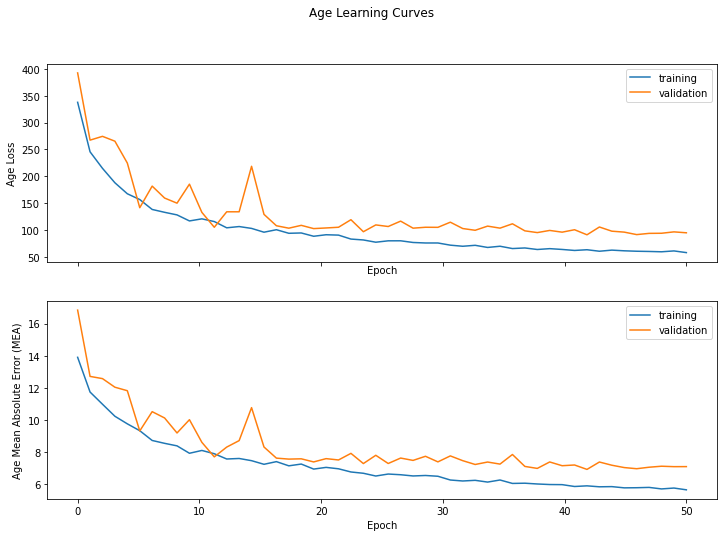
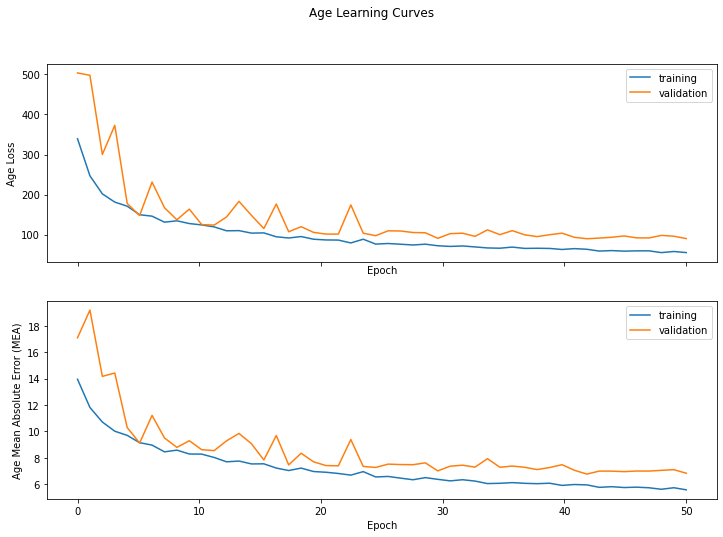
MOre adjustments and figure updates

diff --git a/report/sections/pre-trainedCNN.tex b/report/sections/pre-trainedCNN.tex
@@ -54,7 +54,12 @@ The pre-trained model was trained in the same manner as Model A, with the same l
 
 Unfortunately we found the model started heavily over-fitting after a number of epochs.\\
 If left to train for longer it would continue to improve training accuracy, however validation would not, and occasionally get worse.
-As a form of hyper-parameter training we implemented a stop early callback which would end the training and retain the best weights (with respect to validation loss output) if the validation loss failed to improve over 5 consecutive epochs.
+As a form of hyper-parameter training we implemented a stop early callback which would end the training and retain the best weights (with respect to validation loss output) if the validation loss failed to improve over 5 consecutive epochs.\\
+The trace of the training when early stopping was performed can be found in \autoref{appendix:ModelB_early_stopping}, wherein there was no improvement in validation loss from epoch 26-30, and as such the model weights would be set to those obtained in epoch 25.
+
+\subsubsection{Data Preparation}
+The dataset was processed in the same manner as for training Model A.\\
+An \verb|ImageDataGenerator| was created, and used to create a data generator for both training and validation images.
 
 \begin{optional}
     \subsubsection{Hyper-Parameter Tuning}
@@ -68,44 +73,50 @@ As a form of hyper-parameter training we implemented a stop early callback which
         \item Dropout rate (for both branches)
         \item Regularisation (for both branches)
     \end{enumerate}
-    Once this completed, we rebuilt and trained the model with the tuned hyper-params fixed.
+    Once this completed, we rebuilt and trained the model with the tuned hyper-params fixed.\\
+    \begin{notes}
+        This could be thrown into a table in the appendix if we want to ref we did tuning without wasting space on the specific params?
+    \end{notes}
 \end{optional}
 
+
 \subsection{Performance}
-The trace of the final epoch is below.
-\begin{notes}
-    Pending final training\dots\\
-    Should this be placed in appendix, but key values (gender accuracy and age MAE) be provided, to discuss along with graphs.
-\end{notes}
-\begin{verbatim}
-    Epoch 24/50
-125/125 [==============================] 
-- 47s 377ms/step 
-- loss: 102.8915 
-- age_output_loss: 89.4744 
-- gender_output_loss: 0.1342 
-- age_output_mean_absolute_error: 6.8606 
-- gender_output_binary_accuracy: 0.9452 
-- val_loss: 176.9170 
-- val_age_output_loss: 136.7507 
-- val_gender_output_loss: 0.4017 
-- val_age_output_mean_absolute_error: 8.1429 
-- val_gender_output_binary_accuracy: 0.8448
-\end{verbatim}
-
-The pre-trained model performed slightly worse than our model on both tasks on the validation data.
-It achieved an accuracy of 84\% on gender prediction and a mean squared error of 8.1 on age
-prediction. It also over-fits slightly, achieving higher performance on the training data.
-
-\begin{figure}
+Due to the early stopping implemented for Model B's training, the final Epoch is not the one from which the weights will be saved.\\
+They will in-fact be saved from Epoch 25, since it failed to improve on the validation loss for 5 subsequent Epochs.\\
+From Epoch 25, we can see Model B got the following performance:
+\begin{table}[h!]
     \centering
-    \includegraphics[width=0.7\textwidth]{Model_B_AgeLearning.png}
-    \caption{\label{fig:ModelBPerformanceAge} The performance on age prediction for the pre-trained model.}
-\end{figure}
+    \begin{tabular}[h]{r|l|l}
+        \hline
+        Metric & Training & Validation \\
+        \hline
+        Age Mean Absolute Error & 6.6296 & 6.4352 \\
+        \hline
+        Gender Binary Accuracy & 0.9495 & 0.8952 \\
+        \hline
+    \end{tabular}
+    \caption{\label{tab:ModelB_Performance}}
+\end{table}
+For the full training output for epoch 25, please see \autoref{appendix:modelB_best_epoch}.
+For the training output for the final epochs (from the best epoch till the last), please see \autoref{appendix:modelB_early_stopping_epochs}.
 
+Looking at the learning curves (shown in \autoref{fig:ModelBPerformanceAge}) of the age MAE for Model B, you can see very little over-fitting, with both lines sticking very close together with some minor spikes from the validation curve.\\
+Unfortunately the gender accuracy shown in \autoref{fig:ModelBPerformanceGender} highlights a not insignificant amount of over-fitting, where validation accuracy always being at least 2\% more than the training accuracy, and starting to diverge from ~epoch 10.\\
+\textit{The graphs within \autoref{fig:ModelBPerformance} }\\
 
-\begin{figure}
+\begin{figure}[h!]
+    \begin{subfigure}{\textwidth}
+        \centering
+        \includegraphics[height=0.45\textheight]{Model_B_AgeLearning_hp_tuned.png}
+    \caption{\label{fig:ModelBPerformanceAge}The performance on age prediction for the pre-trained model.}
+    \end{subfigure}
+    \begin{subfigure}{\textwidth}
+        \centering
+        \includegraphics[height=0.45\textheight]{Model_B_GenderLearning_hp_tuned.png}
+        \caption{\label{fig:ModelBPerformanceGender}The performance on gender prediction for the pre-trained model.}    
+    \end{subfigure}
     \centering
-    \includegraphics[width=0.7\textwidth]{Model_B_GenderLearning.png}
-    \caption{\label{fig:ModelBPerformanceGender} The performance on gender prediction for the pre-trained model.}
+    \caption{
+        \label{fig:ModelBPerformance}Learning curves observed training Model B. \textit{Graphs show 30 epochs, however the weights are actually saved for epoch 25.}
+        }
 \end{figure}

diff --git a/report/sections/ownCNN.tex b/report/sections/ownCNN.tex
@@ -1,7 +1,7 @@
 
 \section{Model A - CNN Created From Scratch}
 \subsection{Architecture}
-Our model architecture is shown in Fig \autoref{fig:ModelAGraph}. 
+Our model architecture is shown in \autoref{fig:ModelAGraph}. 
 It consists of a shared trunk with two convolutional layers with 64 3x3 kernels and relu activation followed by a 2x2 maxpooling layer and a batchnorm layer. 
 It then has a convolutional layer with 128 3x3 kernels followed by a 2x2 maxpooling layer. 
 The output of this trunk is sent to different branches for age and gender prediction. 
@@ -21,7 +21,8 @@ The first and second layers use relu activation and the final layer uses no acti
 \begin{figure}[h!]
     \centering
     \includegraphics[height=0.95\textheight]{ModelA_Graph.png}
-    \caption{\label{fig:ModelAGraph} The architecture for Model A.}
+    \caption{The architecture for Model A.}
+    \label{fig:ModelAGraph}
 \end{figure}
 
 This architecture was chosen because the first layers of a CNN usually extract generic low-level features which are common to many images. 
@@ -52,14 +53,13 @@ The dense layers also employ dropout and L2 regularisation to reduce over-fittin
 \end{optional}
 
 \subsection{Training}
-The model is trained to minimize a weighted average of losses from each branch. 
+The model is trained to minimize a weighted average of losses from each branch. \\
 The loss for the gender prediction output is binary cross entropy because it is a binary classification problem and the loss for the age prediction is mean squared error because it is a regression problem. 
-Mean squared error was chosen over mean absolute error in order to penalise larger errors more than smaller ones. 
-The average loss is weighted 1:100 towards gender prediction because the average gender losses seen during training were approximately 50 times smaller than the age losses.
-This weighting was chosen so the model attempts to balance its training objectives without over-prioritising either age or gender. 
-The model uses the Adam optimizer with a exponentially decaying learning rate. 
-
-The model is trained for a total of 50 epochs.
+Mean squared error was chosen over mean absolute error in order to penalise larger errors more than smaller ones.\\
+The average loss is weighted 1:100 towards gender prediction because the average gender losses seen during training were much smaller than the age losses (due to it being a binary problem, and the age loss being a squared value).
+This weighting was chosen so the model attempts to balance its training objectives without over-prioritising either age or gender.\\
+The model uses the Adam optimizer with a exponentially decaying learning rate.\\
+The model is trained for a total of 50 epochs.\\
 
 \begin{optional}
     \subsubsection{Hyper-Parameter Tuning}
@@ -77,12 +77,15 @@ The model is trained for a total of 50 epochs.
         \item Dropout rate (for both branches)
         \item Regularisation (for both branches)
     \end{enumerate}
-    An output of the tuning can b found in the appendix here \autoref{appendix:Model_A_Hyper-Parameter_Tuning}
+    An output of the tuning can be found in \autoref{appendix:Model_A_Hyper-Parameter_Tuning}
 
-    Once this completed, we rebuilt and trained the model with the tuned hyper-params fixed.
+    Once this completed, we rebuilt and trained the model with the tuned hyper-params fixed.\\
+    \begin{notes}
+        This could be thrown into a table in the appendix if we want to ref we did tuning without wasting space on the specific params?
+    \end{notes}
 \end{optional}
 
-\subsection{Data}
+\subsubsection{Data Preparation}
 The model is trained on data from the dataset provided. The data is preprocessed using the Keras \verb|ImageDataGenerator| to effectively increase the size of the dataset and prevent over-fitting. 
 The augmentations used are rotation, zoom, and horizontal flipping.\\
 To split the dataset into the Training and Validation datasets, the \verb|ImageDataGenerator| was provided 0.2 as the validation split. We then called the \verb|flow_from_dataframe| method on the generator, passing in the dataframe containing the image paths and labels, and provided which dataset should be created, e.g. training or validation.
@@ -98,7 +101,7 @@ The gender branch can be seen to over-fit to a greater extent than the age branc
 
 The trace of the final training epoch is below.\\
 \begin{verbatim}
-    Epoch 50/50
+Epoch 50/50
 125/125 [==============================] 
 - 41s 325ms/step 
 - loss: 82.5588 
@@ -117,12 +120,13 @@ The trace of the final training epoch is below.\\
     Can just include gender binary accuracy and age MAE for both training and validation to summarize performance and discuss the graphs?
 \end{notes}
 \begin{figure}[h]
-    \centering
     \begin{subfigure}{\textwidth}
+        \centering
         \includegraphics[height=0.45\textheight]{ModelA_AgeLearning_TunedHyperParams.png}
         \caption{\label{fig:ModelAPerformanceAge} The performance on age prediction for our model.}
     \end{subfigure}
     \begin{subfigure}{\textwidth}
+        \centering
         \includegraphics[height=0.45\textheight]{ModelA_GenderLearning_TunedHyperParams.png}
         \caption{\label{fig:ModelAPerformanceGender} The performance on gender prediction for our model.}
     \end{subfigure}

diff --git a/report/sections/summaryAndDiscussion.tex b/report/sections/summaryAndDiscussion.tex
@@ -1,19 +1,22 @@
 \section{Summary and Conclusions}
-Both models over-fit significantly (with validation loss being ~5\% worse than training loss once it began to plateau) despite measures to counteract it including L2 regularisation,
-dropout and data augmentation. This is likely due to the relatively small amount of training data.
+Though Model A produced better values for the age Mean Square Error during training, it was out-performed by Model B during validation (for both age and gender loss metrics), and during training when viewing the gender Binary Accuracy.
 
-Model B performed slightly worse than Model A, and suffered from over-fitting in particular when trained for the same number of epochs.\\
-Given the known performance of the ResNet50 model and the number of convolutions \& layers it contains, you would expect the feature extraction capabilities to supersede that of Model A.\\
-Given this you'd expect Model B to out perform Model A.
-Though the performance is close (as was the disparity between training and validation loss), Model B actually performed slightly worse than Model A.
-Below are the reasons we believe this to be the case:
-\begin{enumerate}
-    \item \textbfit{Lack of Hyper-Parameter tuning / identification:}\\
-    When we left Model B to continue training beyond the epoch that triggered the early-stopping callback, the model was able to continue improving its training loss reduction much faster than that of Model A, however the validation loss either failed to improve, or in-fact worsened.\\
-    Given this it is possible that the hyper-parameters for Model B could be sub-optimal, resulting in the model over-fitting.
-    To resolve this we could perform the same hyper-parameter tuning we did for Model A, though adjusted to suit the hyper-parameters we identify for Model B.
+Both models were observed to suffer from over-fitting to some degree.
+Model A suffered over-fitting for both branches, while Model B showed over-fitting just for the gender branch.\\
+This is evidenced by the diverging of the learning curves between the training and validation metrics, despite measures to counteract over-fitting, including: L2 regularisation, dropout, and data augmentation.
 
-    \item \textbfit{Model A was purpose built:}\\
-    Despite having a much simpler architecture and many fewer parameters, Model A was built to solely predict age and gender. Model B by comparison was trained on ImageNet to classify images as one of 1000 classes. None of these classes are related to human faces so the power of the ResNet50 base model is applicable only to more generic image features in our case.\\
-    Although we did unfreeze the ResNet50 model weights, with the intention of allowing the ResNet50 convolution layer weights to be optimised for the task at hand, it may simply be the the model itself doesn't lend itself to extracting the features we need.  
-\end{enumerate}
+Given the top-1 and top-5 accuracy observed from ResNet50 on the ImageNet dataset, you'd presume that it should handedly outperform a much smaller/simpler model, since it has been trained to extract the best features for a 1000s of classes.\\
+Below are the reasons we believe the performance was so close.
+
+\textbfit{Simple vs Complex}\\
+Despite having a much simpler architecture and many fewer parameters, Model A was built to solely predict age and gender. Model B by comparison was trained on ImageNet to classify images as from 1000's of classes. 
+None of these classes are related to human faces so the power of the ResNet50 base model is applicable only to more generic image features in our case.\\
+Although we did unfreeze the ResNet50 model weights, with the intention of allowing the ResNet50 convolution layer weights to be optimised for the task at hand, it may simply be the the model itself doesn't lend itself to extracting the features we need.\\
+We can see that Model B seemed to 'learn' faster, shown by the initial age and gender metrics being better, and then converging much sooner than Model A.\\
+This could indicate that ResNet50 convolutions layers allowed better feature extraction, but there was some other limitation preventing either model from getting better performance without over-fitting.
+
+\textbfit{Lack Of Data Diversity / Small Dataset Size}\\
+With the provided dataset size and diversity, it is possible that the models are unable to learn enough general features from the data to aptly predict the age and gender.
+
+This could also explain the over-fitting issues observed on both models, since the models could be learning the training data too specifically due to a lack of diversity.\\
+We could simplify the models, however there were several hyper-parameters tied to model complexity (convolution layer feature depth, FCN layer unit count) which were tuned to their specific values based on them producing better validation loss.\\

diff --git a/report/sections/appendix.tex b/report/sections/appendix.tex
@@ -57,3 +57,35 @@
     \includegraphics[height=0.9\textheight]{HyperParameter_Tuning.png}
     \label{fig:modelA_hyperparam_tuning}
 \end{figure}
+
+\section{Model B Epoch Traces}
+\subsection{Epoch With Best Weights}\label{appendix:modelB_best_epoch}
+\begin{verbatim}
+Epoch 25/50
+125/125 [==============================] - 37s 295ms/step 
+- loss: 137.7862 
+- age_output_loss: 85.8010 
+- gender_output_loss: 0.1336 
+- age_output_mean_absolute_error: 6.6296 
+- gender_output_binary_accuracy: 0.9495 
+- val_loss: 148.9740 
+- val_age_output_loss: 84.2459 
+- val_gender_output_loss: 0.2754 
+- val_age_output_mean_absolute_error: 6.4352 
+- val_gender_output_binary_accuracy: 0.8952
+\end{verbatim}
+\subsection{Early Stopping Epochs}\label{appendix:modelB_early_stopping_epochs}
+\begin{verbatim}
+    Epoch 25/50 
+    125/125 [==============================] - 37s 295ms/step - loss: 137.7862 - age_output_loss: 85.8010 - gender_output_loss: 0.1336 - age_output_mean_absolute_error: 6.6296 - gender_output_binary_accuracy: 0.9495 - val_loss: 148.9740 - val_age_output_loss: 84.2459 - val_gender_output_loss: 0.2754 - val_age_output_mean_absolute_error: 6.4352 - val_gender_output_binary_accuracy: 0.8952
+    Epoch 26/50
+    125/125 [==============================] - 37s 293ms/step - loss: 132.8992 - age_output_loss: 81.6965 - gender_output_loss: 0.1276 - age_output_mean_absolute_error: 6.4587 - gender_output_binary_accuracy: 0.9545 - val_loss: 170.6825 - val_age_output_loss: 112.0731 - val_gender_output_loss: 0.3048 - val_age_output_mean_absolute_error: 7.3826 - val_gender_output_binary_accuracy: 0.8861
+    Epoch 27/50
+    125/125 [==============================] - 36s 290ms/step - loss: 132.8922 - age_output_loss: 81.7933 - gender_output_loss: 0.1241 - age_output_mean_absolute_error: 6.5250 - gender_output_binary_accuracy: 0.9540 - val_loss: 184.4266 - val_age_output_loss: 112.8646 - val_gender_output_loss: 0.4228 - val_age_output_mean_absolute_error: 7.1937 - val_gender_output_binary_accuracy: 0.8427
+    Epoch 28/50
+    125/125 [==============================] - 37s 292ms/step - loss: 127.1637 - age_output_loss: 76.9677 - gender_output_loss: 0.1166 - age_output_mean_absolute_error: 6.3486 - gender_output_binary_accuracy: 0.9545 - val_loss: 162.6561 - val_age_output_loss: 95.7592 - val_gender_output_loss: 0.3453 - val_age_output_mean_absolute_error: 6.9558 - val_gender_output_binary_accuracy: 0.8780
+    Epoch 29/50
+    125/125 [==============================] - 36s 290ms/step - loss: 127.2952 - age_output_loss: 78.4763 - gender_output_loss: 0.1051 - age_output_mean_absolute_error: 6.3871 - gender_output_binary_accuracy: 0.9590 - val_loss: 150.4551 - val_age_output_loss: 79.4326 - val_gender_output_loss: 0.3301 - val_age_output_mean_absolute_error: 6.3020 - val_gender_output_binary_accuracy: 0.8810
+    Epoch 30/50
+    125/125 [==============================] - 37s 294ms/step - loss: 127.9663 - age_output_loss: 78.2092 - gender_output_loss: 0.1136 - age_output_mean_absolute_error: 6.3384 - gender_output_binary_accuracy: 0.9595 - val_loss: 169.1610 - val_age_output_loss: 107.0598 - val_gender_output_loss: 0.3352 - val_age_output_mean_absolute_error: 7.1232 - val_gender_output_binary_accuracy: 0.8851
+\end{verbatim}
